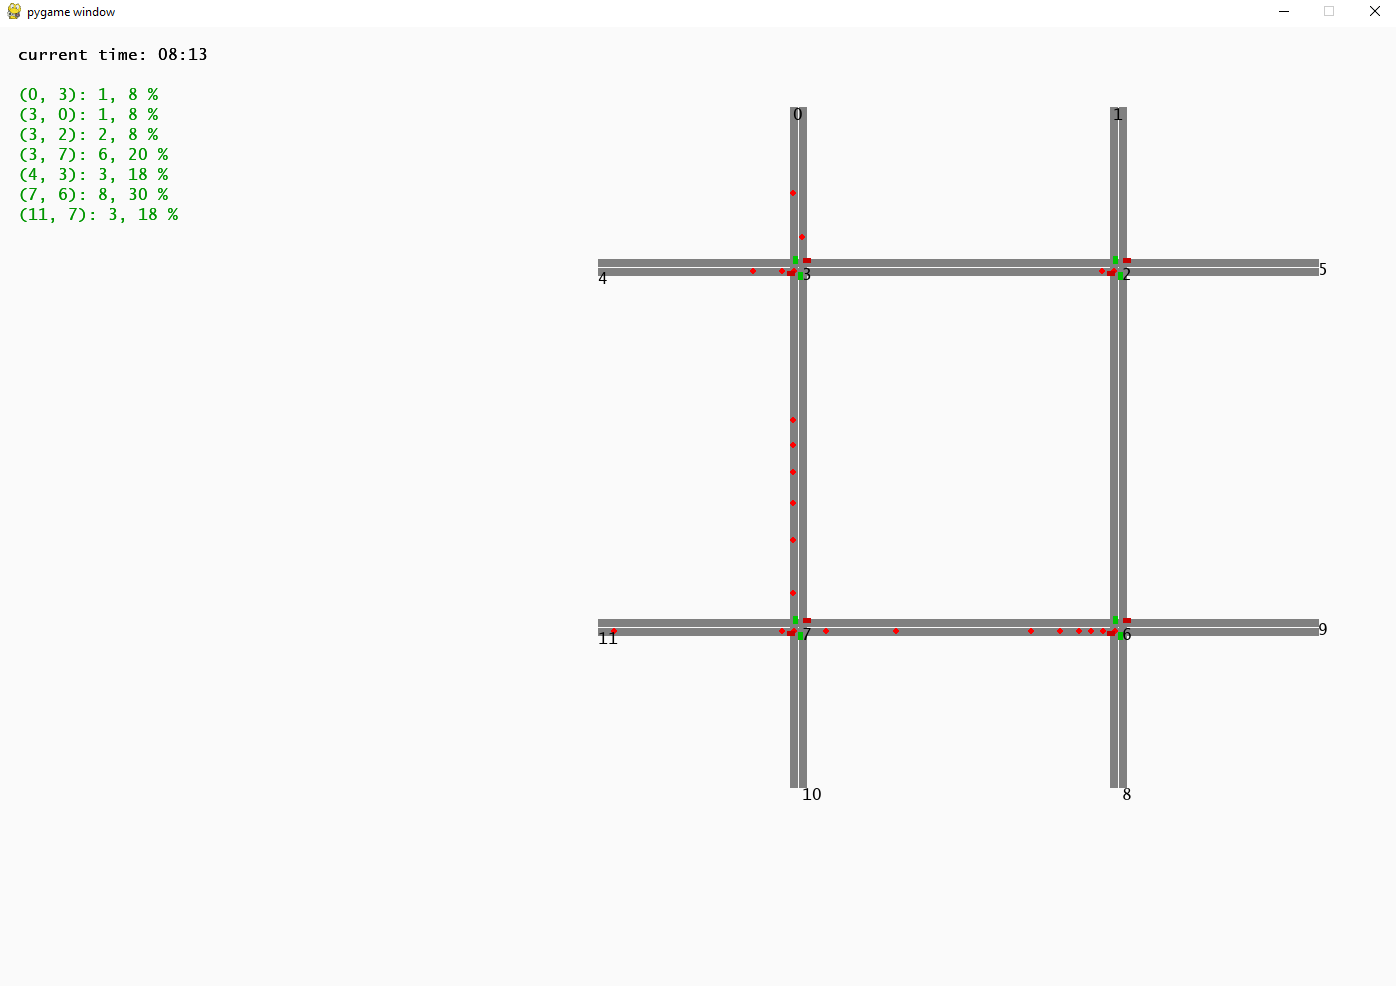
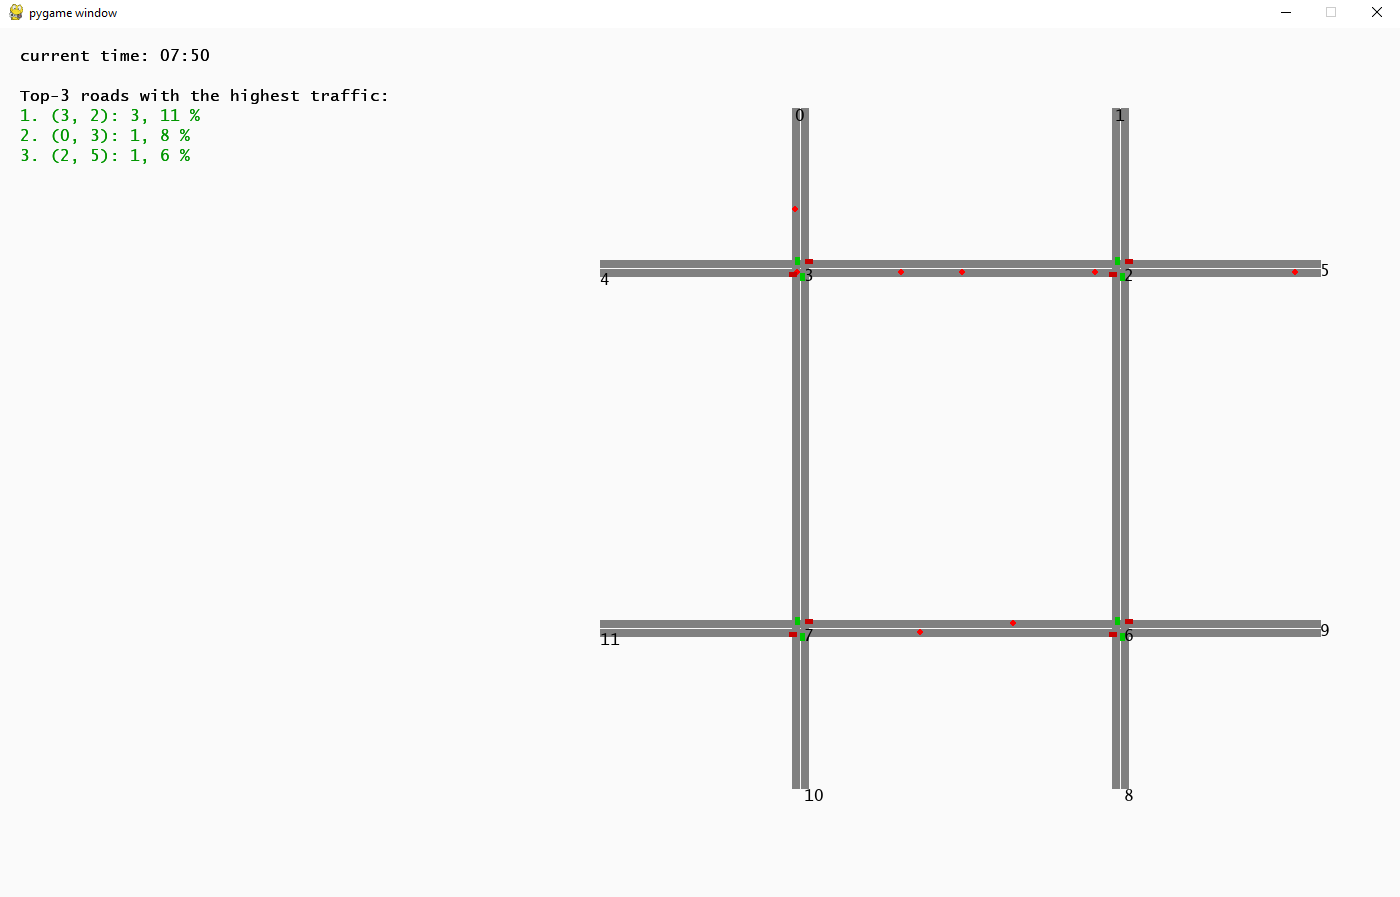
The picture of my city was updated

diff --git a/Lab 3/Transport System Modeling/main.py b/Lab 3/Transport System Modeling/main.py
@@ -10,14 +10,16 @@ firstSimulation.createRoadsFromGraph(Graph)
 
 
 firstSimulation.createGen({
-    'vehicleRate' : 30,
+    'vehicleRate' : 50,
     'vehicles' : [
         [1, {"path" : [(0, 3), (3, 7), (7, 6), (6, 9)]}],
         [1, {"path" : [(0, 3), (3, 2)]}],
+        [1, {"path" : [(4, 3)]}],
+        [1, {"path" : [(11, 7)]}],
         [1, {"path" : [(4, 3), (3, 2), (2, 5)]}],
         [1, {"path" : [(11, 7), (7, 6), (6, 2), (2, 1)]}],
         [1, {"path" : [(10, 7), (7, 6), (6, 8)]}],
-        [1, {"path" : [(3, 7), (7, 6), (6, 2)]}]
+        [1, {"path" : [(3, 2), (2, 6), (6, 7), (7, 3)]}]
 
 
     ]

diff --git a/Lab 3/Transport System Modeling/vehicleGenerator.py b/Lab 3/Transport System Modeling/vehicleGenerator.py
@@ -15,7 +15,7 @@ class VehicleGenerators:
         self.initProperties()
 
     def set_default_config(self):
-        self.vehicleRate = 30
+        self.vehicleRate = 50
         self.vehicles = [
             (1, {})
         ]
